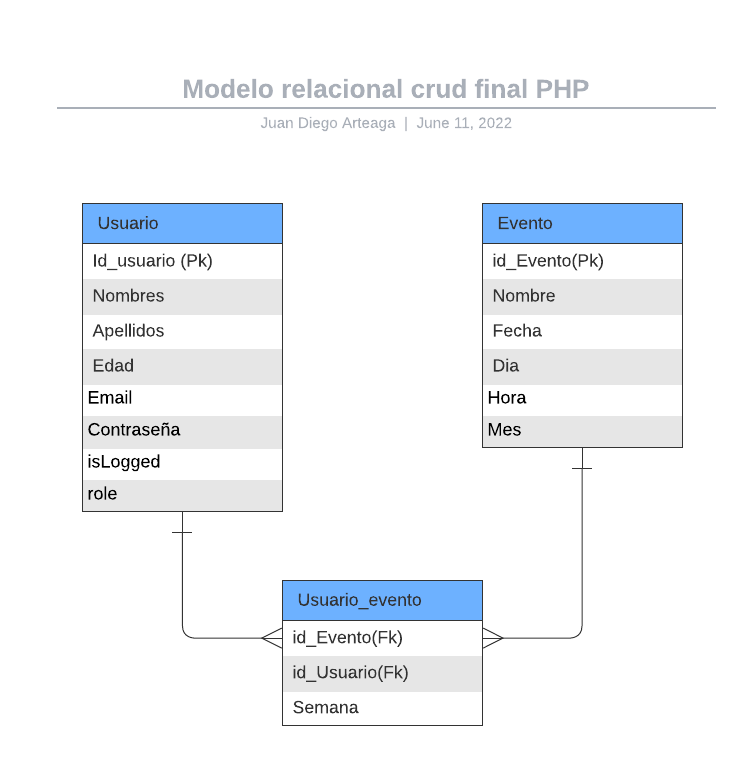
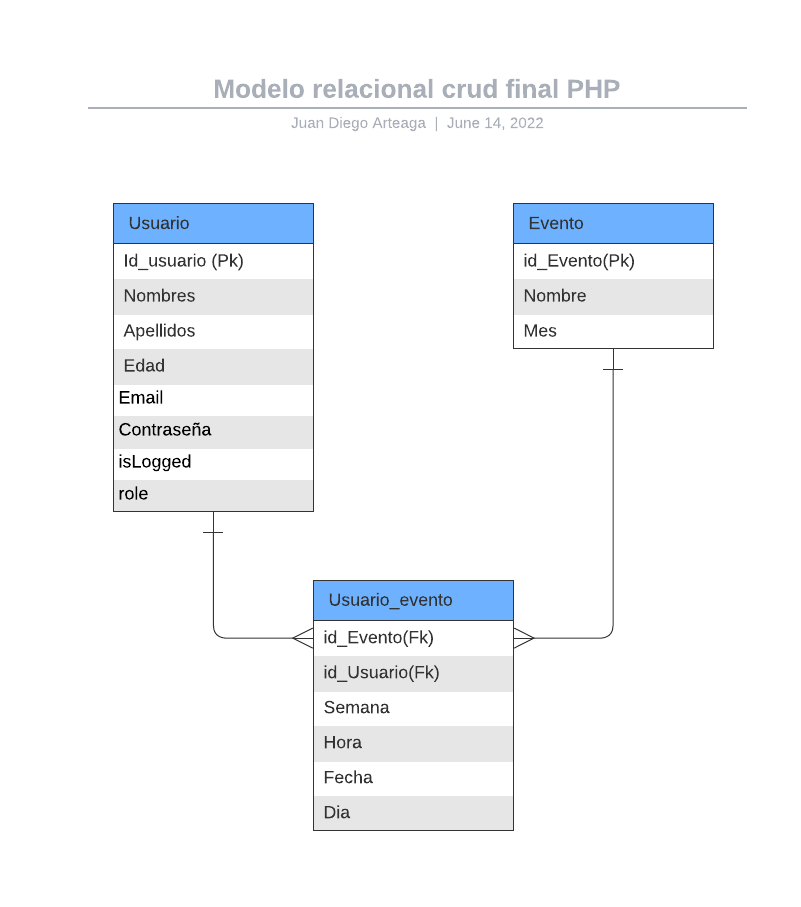
Se cambia modelo de la base de datos y tabla

diff --git a/functions/event/registrar_evento.php b/functions/event/registrar_evento.php
@@ -7,3 +7,56 @@ where e.mes = "Junio" and e.semana = 1
 Para validar la cantidad de usuarios que hay en cada evento
 
  -->
+
+<?php
+include_once "../../model/conexion.php";
+
+$eventId = $_GET['eventId'];
+$query = $bd->query("SELECT * FROM events WHERE id = $eventId");
+$event = $query->fetchAll(PDO::FETCH_OBJ);
+?>
+
+
+<!doctype html>
+<html lang="en">
+
+<head>
+    <meta charset="utf-8">
+    <meta name="viewport" content="width=device-width, initial-scale=1">
+    <title>Registrarse al evento</title>
+    <link href="https://cdn.jsdelivr.net/npm/bootstrap@5.2.0-beta1/dist/css/bootstrap.min.css" rel="stylesheet" integrity="sha384-0evHe/X+R7YkIZDRvuzKMRqM+OrBnVFBL6DOitfPri4tjfHxaWutUpFmBp4vmVor" crossorigin="anonymous">
+    <link href="../../assets/styles/style.css" rel="stylesheet">
+</head>
+
+<body style="background-color: #F7F7F7">
+
+    <div class="row m-0 vh-100 justify-content-center align-items-center scale-up-center">
+        <div class="col-md-6 p-5">
+            <div class="card">
+                <div class="card-body">
+                    <h5 class="card-title">Registrarse al evento: <?php echo $event[0]->name ?></h5>
+                    <form action="registrar_evento_proceso.php" method="POST">
+
+                        <label for="exampleInputEmail1" class="form-label">Elegir la semana del evento</label>
+                        <select class="form-select" aria-label="Default select example" name="semana">
+                            <option value="1" selected>Semana 1</option>
+                            <option value="2">Semana 2</option>
+                            <option value="3">Semana 3</option>
+                            <option value="4">Semana 4</option>
+                        </select>
+
+                        <!-- Buttons -->
+                        <div class="row m-1 justify-content-end">
+                            <a class="btn btn-outline-dark col-auto m-1" href="../../principalPage.php?message=null">Cancelar</a>
+                            <input type="submit" class="btn btn-custom-primary col-auto m-1" value="Registrarme">
+                        </div>
+                    </form>
+                </div>
+            </div>
+        </div>
+    </div>
+
+    <script src="https://cdn.jsdelivr.net/npm/bootstrap@5.2.0-beta1/dist/js/bootstrap.bundle.min.js" integrity="sha384-pprn3073KE6tl6bjs2QrFaJGz5/SUsLqktiwsUTF55Jfv3qYSDhgCecCxMW52nD2" crossorigin="anonymous"></script>
+</body>
+
+</html>

diff --git a/principalPage.php b/principalPage.php
@@ -5,6 +5,7 @@
 include_once 'model/conexion.php';
 $query = $bd->query("SELECT * FROM events");
 $events = $query->fetchAll(PDO::FETCH_OBJ);
+
 ?>
 
 <div class="container mt-5 scale-up-center" style="margin-bottom: 100px;">
@@ -37,10 +38,6 @@ $events = $query->fetchAll(PDO::FETCH_OBJ);
                         <tr>
                             <th scope="col">#</th>
                             <th scope="col">Nombre</th>
-                            <th scope="col">Fecha</th>
-                            <th scope="col">Día</th>
-                            <th scope="col">Hora</th>
-                            <th scope="col">Semana</th>
                             <th scope="col">Mes</th>
                             <th scope="col">Acciones</th>
                         </tr>
@@ -54,13 +51,9 @@ $events = $query->fetchAll(PDO::FETCH_OBJ);
                             <tr>
                                 <th scope="row"><?php echo $event->id ?></th>
                                 <td><?php echo $event->name ?></td>
-                                <td><?php echo $event->date ?></td>
-                                <td><?php echo $event->day ?></td>
-                                <td><?php echo $event->hour ?></td>
-                                <td>Semana 1</td>
                                 <td><?php echo $event->month ?></td>
                                 <td>
-                                    <a href="" class="btn btn-custom-primary">Registrarme</a>
+                                    <a class="btn btn-custom-primary" href="functions/event/registrar_evento.php?eventId=<?php echo $event->id ?>">Registrarme</a>
                                 </td>
                             </tr>
 
@@ -75,5 +68,6 @@ $events = $query->fetchAll(PDO::FETCH_OBJ);
         </div>
     </div>
 </div>
+
 
 <?php include 'template/footer.php'; ?>

diff --git a/functions/event/registrar_evento_proceso.php b/functions/event/registrar_evento_proceso.php
@@ -1,0 +1,3 @@
+<?php
+
+echo "Buenas tardes";
